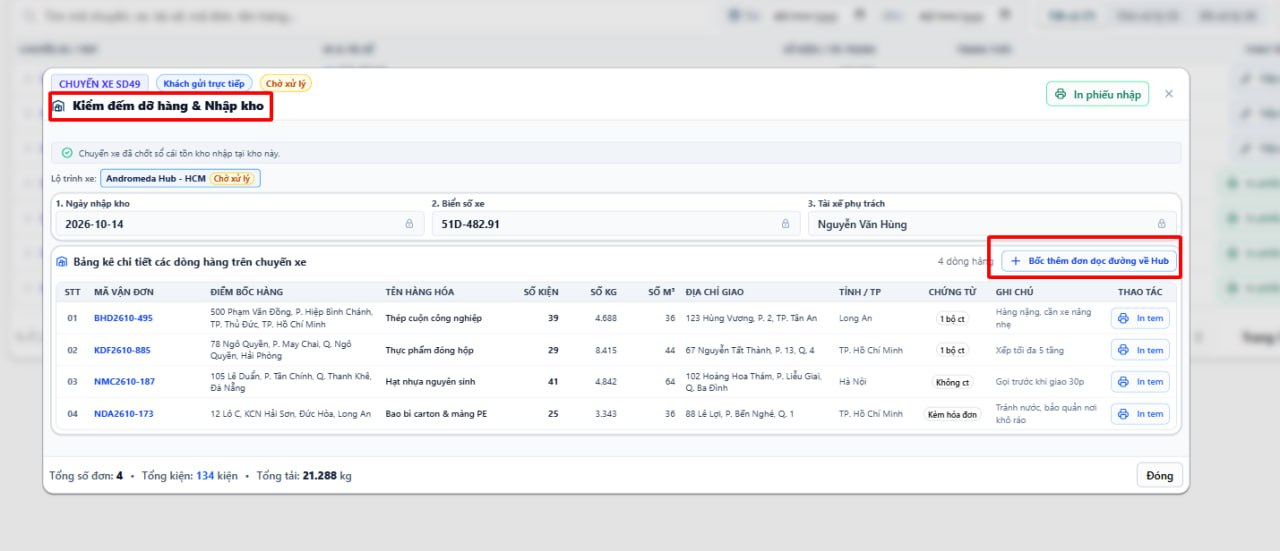
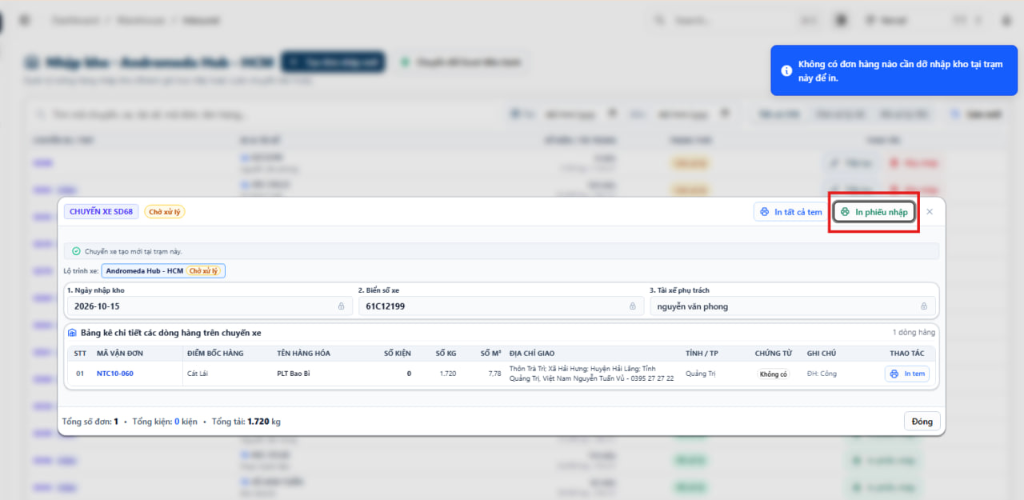
docs(task-83): update correct screenshot SD68 and sync TODO.md analysis

diff --git a/feedbacks/feedback_15_10_task_83/TODO.md b/feedbacks/feedback_15_10_task_83/TODO.md
@@ -14,7 +14,7 @@
 > - Biên niên sử hệ thống [`docs/SYSTEM_TIMELINE.md`](file:///home/runner/work/logistics-website/logistics-website/docs/SYSTEM_TIMELINE.md)  
 > - Kế hoạch chuẩn mẫu [`feedbacks/feedback_06_10/TODO.md`](file:///home/runner/work/logistics-website/logistics-website/feedbacks/feedback_06_10/TODO.md)  
 > **Ảnh minh chứng đính kèm trong thư mục**:  
-> - [`screenshot_01.jpg`](file:///home/runner/work/logistics-website/logistics-website/feedbacks/feedback_15_10_task_83/screenshot_01.jpg): Modal Chi tiết chuyến xe & Kiểm đếm hàng hóa của chuyến xe `SD49` ở trạng thái `Chờ xử lý`, trong đó nút `🖨 In phiếu nhập` xuất hiện trên thanh Header góc trên bên phải cạnh nút đóng `✕`.
+> - [`screenshot_01.jpg`](file:///home/runner/work/logistics-website/logistics-website/feedbacks/feedback_15_10_task_83/screenshot_01.jpg): Modal Chi tiết chuyến xe của chuyến xe `SD68` ở trạng thái `Chờ xử lý` tại `Andromeda Hub - HCM` (Xe tạo mới tại trạm này, BKS: `61C12199`, Tài xế: `nguyễn văn phong`, đơn hàng `NTC10-060`). Nút `🖨 In phiếu nhập` xuất hiện trên thanh Header góc trên bên phải (được khoanh viền đỏ), khi ấn vào hệ thống báo thông báo toast: *"Không có đơn hàng nào cần dỡ nhập kho tại trạm này để in."*.
 
 ---
 
@@ -23,7 +23,7 @@
 ### 1. Phản hồi gốc từ người dùng (@Thai)
 > *"khi chuyến xe đang trạng thái là 'Chờ xử lý', nút khoanh đỏ 'In phiếu nhập' sẽ bị ẩn, vì lúc này người dùng ấn vào cũng không in gì được đâu"*
 
-Kèm ảnh chụp màn hình thực tế: [`screenshot_01.jpg`](file:///home/runner/work/logistics-website/logistics-website/feedbacks/feedback_15_10_task_83/screenshot_01.jpg) ghi nhận chuyến xe `SD49` đang dừng tại trạm kiểm đếm với huy hiệu trạng thái màu vàng **`Chờ xử lý`** (`PENDING`). Tại góc trên bên phải của Modal Header, nút **`🖨 In phiếu nhập`** vẫn đang hiển thị, cho phép người dùng click vào.
+Kèm ảnh chụp màn hình thực tế: [`screenshot_01.jpg`](file:///home/runner/work/logistics-website/logistics-website/feedbacks/feedback_15_10_task_83/screenshot_01.jpg) ghi nhận chuyến xe `SD68` đang dừng tại trạm kiểm đếm `Andromeda Hub - HCM` với huy hiệu trạng thái màu vàng **`Chờ xử lý`** (`PENDING`). Tại góc trên bên phải của Modal Header, nút **`🖨 In phiếu nhập`** vẫn đang hiển thị (khoanh đỏ). Khi người dùng ấn vào nút này, hệ thống hiển thị toast cảnh báo: *"Không có đơn hàng nào cần dỡ nhập kho tại trạm này để in."* vì hàng chưa được dỡ và xác nhận nhập kho thực tế.
 
 ---
 
